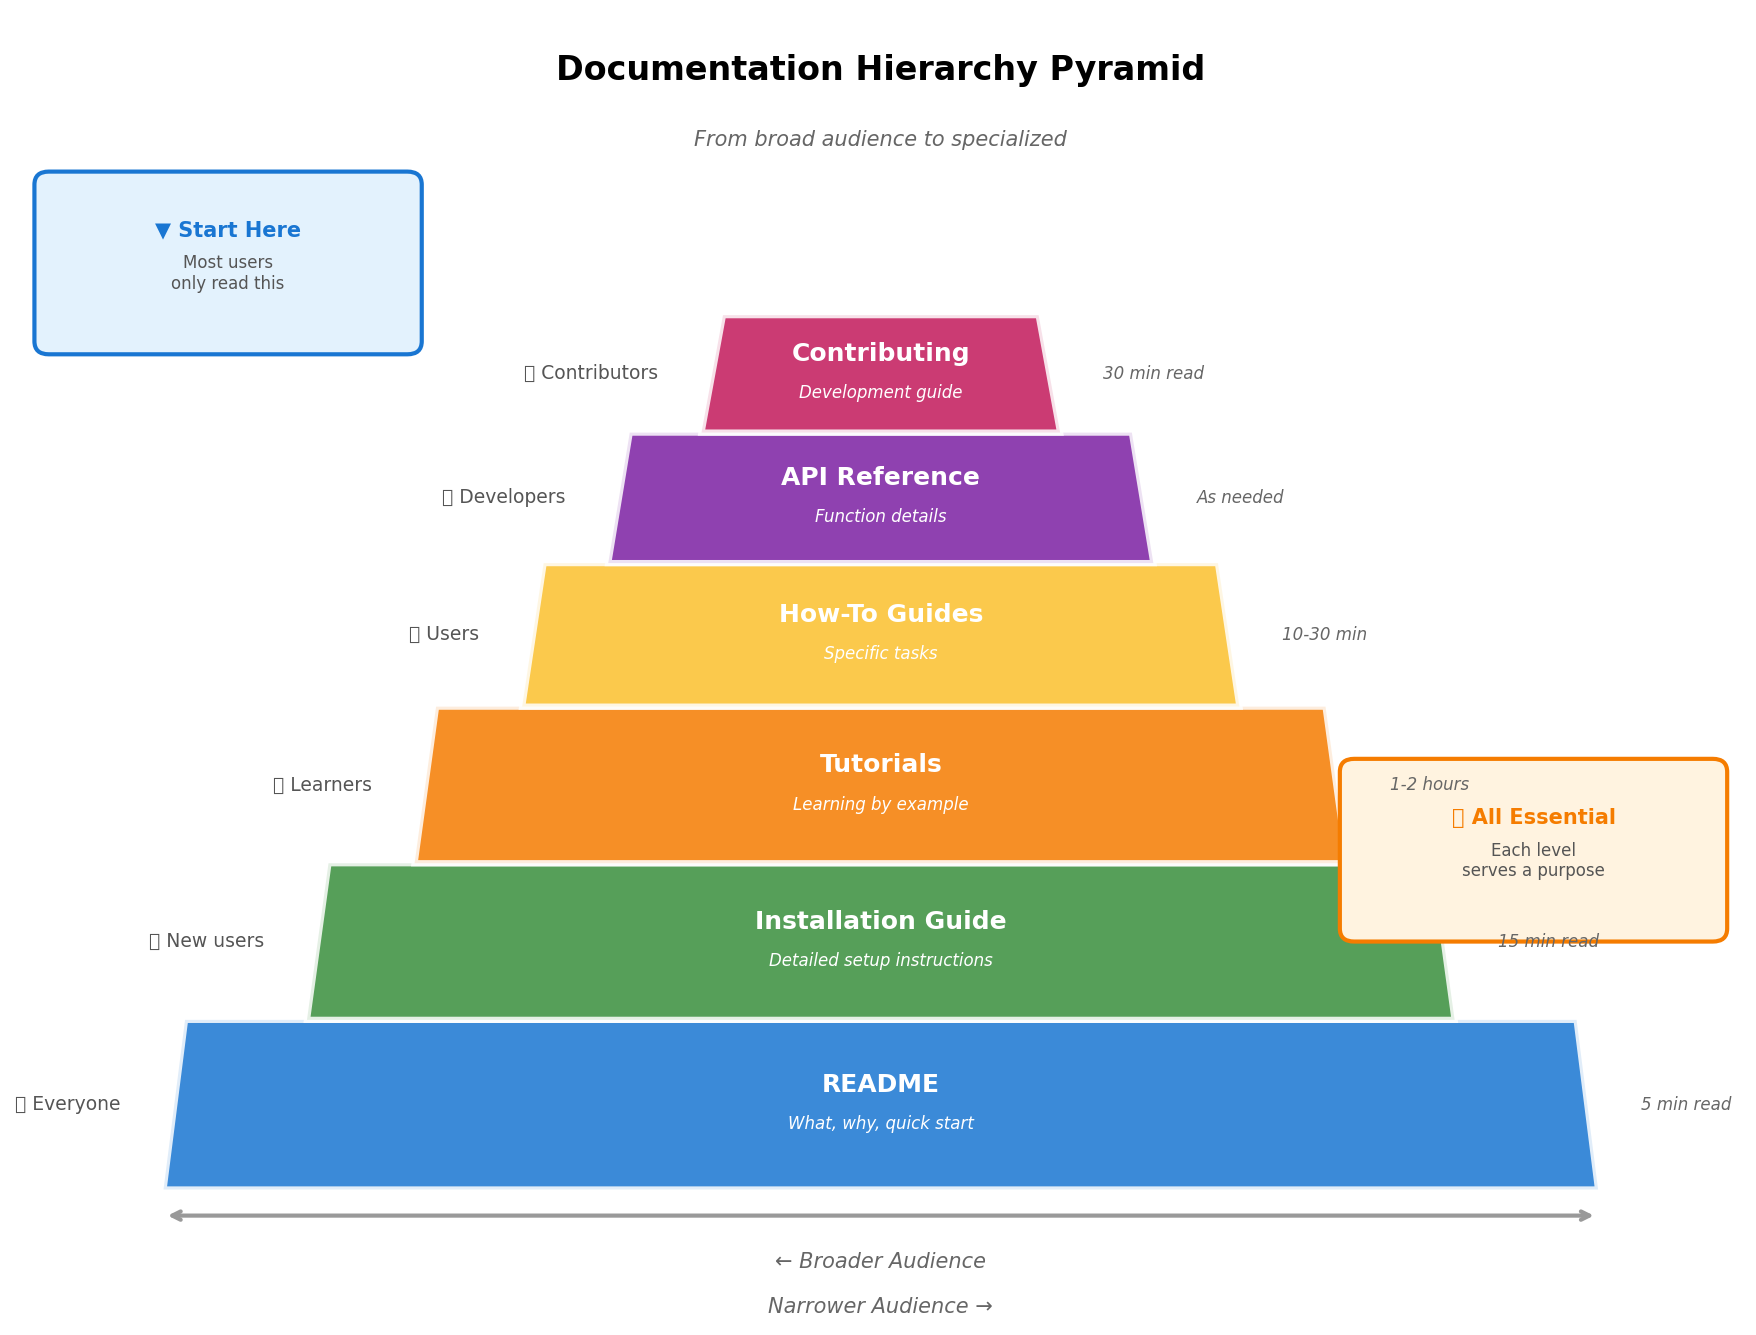
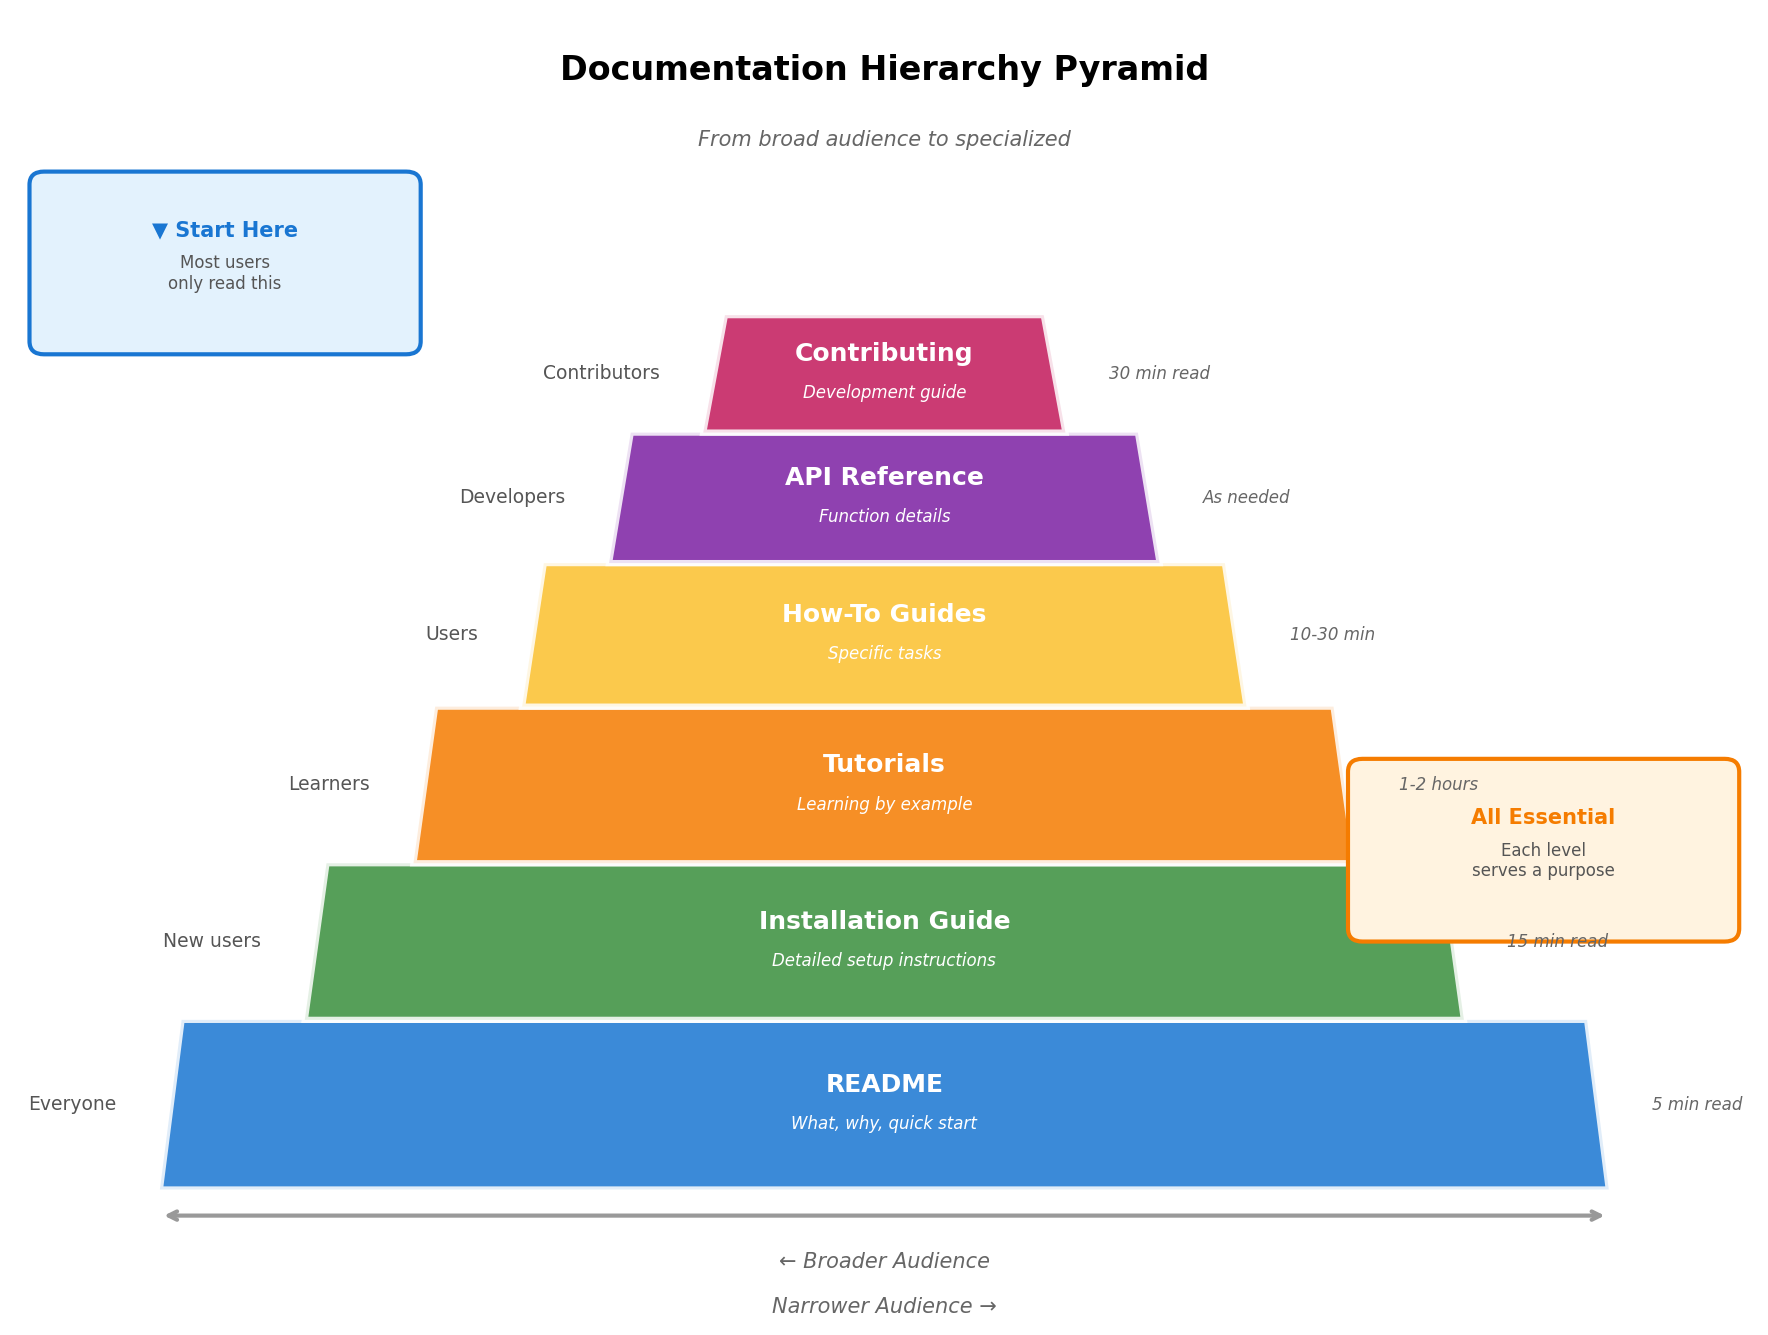
Fix visualization issues: remove emojis, fix text overflow and positioning

diff --git a/scripts/generate_lecture_figures.py b/scripts/generate_lecture_figures.py
@@ -293,13 +293,13 @@ def generate_lecture06_figures(output_dir):
                              edgecolor='#1976d2', linewidth=2,
                              facecolor='#e3f2fd')
     ax.add_patch(dev_box)
-    ax.text(1.5, 5.8, '👨💻 Developer', ha='center', fontsize=11, fontweight='bold')
+    ax.text(1.5, 5.8, 'Developer', ha='center', fontsize=11, fontweight='bold')
     ax.text(1.5, 5.3, 'Pushes Code', ha='center', fontsize=10)
     ax.text(1.5, 4.9, 'to GitHub', ha='center', fontsize=9, style='italic')
     
     trigger_circle = Circle((4.5, 5.5), 0.4, color='#ff9800', zorder=3)
     ax.add_patch(trigger_circle)
-    ax.text(4.5, 5.5, '⚡', ha='center', va='center', fontsize=20)
+    ax.text(4.5, 5.5, '!', ha='center', va='center', fontsize=20)
     ax.text(4.5, 4.3, 'Trigger', ha='center', fontsize=9, fontweight='bold')
     ax.text(4.5, 3.9, 'Automatic', ha='center', fontsize=8, style='italic')
     
@@ -308,13 +308,13 @@ def generate_lecture06_figures(output_dir):
                             edgecolor='#388e3c', linewidth=3,
                             facecolor='#e8f5e9')
     ax.add_patch(ci_box)
-    ax.text(7.5, 6.5, '🤖 CI System', ha='center', fontsize=11, fontweight='bold')
+    ax.text(7.5, 6.5, 'CI System', ha='center', fontsize=11, fontweight='bold')
     ax.text(7.5, 6, 'Clean Environment', ha='center', fontsize=9, color='#555')
     
     substeps = [
-        {'y': 5.4, 'text': '1. Checkout code', 'icon': '📥'},
-        {'y': 4.9, 'text': '2. Install dependencies', 'icon': '📦'},
-        {'y': 4.4, 'text': '3. Run all tests', 'icon': '🧪'},
+        {'y': 5.4, 'text': '1. Checkout code', 'icon': '>'},
+        {'y': 4.9, 'text': '2. Install dependencies', 'icon': '*'},
+        {'y': 4.4, 'text': '3. Run all tests', 'icon': '+'},
     ]
     for step in substeps:
         ax.text(6.3, step['y'], step['icon'], ha='left', fontsize=10)
@@ -325,7 +325,7 @@ def generate_lecture06_figures(output_dir):
                               edgecolor='#2e7d32', linewidth=2,
                               facecolor='#c8e6c9')
     ax.add_patch(pass_box)
-    ax.text(11.6, 6.3, '✅ PASS', ha='center', fontsize=11,
+    ax.text(11.6, 6.3, 'PASS', ha='center', fontsize=11,
             fontweight='bold', color='#1b5e20')
     ax.text(11.6, 5.9, 'Tests succeeded', ha='center', fontsize=8)
     
@@ -334,7 +334,7 @@ def generate_lecture06_figures(output_dir):
                               edgecolor='#c62828', linewidth=2,
                               facecolor='#ffcdd2')
     ax.add_patch(fail_box)
-    ax.text(11.6, 4.3, '❌ FAIL', ha='center', fontsize=11,
+    ax.text(11.6, 4.3, 'FAIL', ha='center', fontsize=11,
             fontweight='bold', color='#b71c1c')
     ax.text(11.6, 3.9, 'Tests failed', ha='center', fontsize=8)
     
@@ -369,12 +369,12 @@ def generate_lecture06_figures(output_dir):
     ax.text(6, 2.5, 'Fix bugs & push again', ha='center', fontsize=9,
             style='italic', color='#c62828')
     
-    ax.text(7, 1.5, '⏱ Entire process: 2-5 minutes (fully automated)',
+    ax.text(7, 1.5, 'Entire process: 2-5 minutes (fully automated)',
             ha='center', fontsize=10, color='#1976d2',
             bbox=dict(boxstyle='round,pad=0.5', facecolor='#e3f2fd',
                       edgecolor='#1976d2', linewidth=2))
     
-    ax.text(7, 0.5, '✨ No manual testing • Consistent results • Immediate feedback',
+    ax.text(7, 0.5, 'No manual testing • Consistent results • Immediate feedback',
             ha='center', fontsize=9, color='#555',
             bbox=dict(boxstyle='round,pad=0.4', facecolor='#f5f5f5',
                       edgecolor='#999'))
@@ -451,7 +451,7 @@ def generate_lecture12_figures(output_dir):
     ax.text(6, 4.2, '← These 3 steps can run in parallel →',
             ha='center', fontsize=8, style='italic', color='#f57c00')
     
-    ax.text(6, 0.3, '⚡ Smart execution: Only reruns steps when inputs change',
+    ax.text(6, 0.3, '! Smart execution: Only reruns steps when inputs change',
             ha='center', fontsize=9, color='#1976d2',
             bbox=dict(boxstyle='round,pad=0.4', facecolor='#e3f2fd',
                       edgecolor='#1976d2', linewidth=2))
@@ -481,22 +481,22 @@ def generate_lecture08_figures(output_dir):
     
     layers = [
         {'y': 1, 'width': 10, 'height': 1.3, 'label': 'README',
-         'desc': 'What, why, quick start', 'audience': '👥 Everyone',
+         'desc': 'What, why, quick start', 'audience': 'Everyone',
          'color': '#1976d2', 'time': '5 min read'},
         {'y': 2.3, 'width': 8, 'height': 1.2, 'label': 'Installation Guide',
-         'desc': 'Detailed setup instructions', 'audience': '👤 New users',
+         'desc': 'Detailed setup instructions', 'audience': 'New users',
          'color': '#388e3c', 'time': '15 min read'},
         {'y': 3.5, 'width': 6.5, 'height': 1.2, 'label': 'Tutorials',
-         'desc': 'Learning by example', 'audience': '🎓 Learners',
+         'desc': 'Learning by example', 'audience': 'Learners',
          'color': '#f57c00', 'time': '1-2 hours'},
         {'y': 4.7, 'width': 5, 'height': 1.1, 'label': 'How-To Guides',
-         'desc': 'Specific tasks', 'audience': '🔧 Users',
+         'desc': 'Specific tasks', 'audience': 'Users',
          'color': '#fbc02d', 'time': '10-30 min'},
         {'y': 5.8, 'width': 3.8, 'height': 1.0, 'label': 'API Reference',
-         'desc': 'Function details', 'audience': '💻 Developers',
+         'desc': 'Function details', 'audience': 'Developers',
          'color': '#7b1fa2', 'time': 'As needed'},
         {'y': 6.8, 'width': 2.5, 'height': 0.9, 'label': 'Contributing',
-         'desc': 'Development guide', 'audience': '🤝 Contributors',
+         'desc': 'Development guide', 'audience': 'Contributors',
          'color': '#c2185b', 'time': '30 min read'},
     ]
     
@@ -548,7 +548,7 @@ def generate_lecture08_figures(output_dir):
                                    edgecolor='#f57c00', linewidth=2,
                                    facecolor='#fff3e0')
     ax.add_patch(essential_box)
-    ax.text(10.55, 3.8, '✨ All Essential', ha='center', fontsize=10,
+    ax.text(10.55, 3.8, 'All Essential', ha='center', fontsize=10,
             fontweight='bold', color='#f57c00')
     ax.text(10.55, 3.4, 'Each level\nserves a purpose', ha='center',
             fontsize=8, color='#555')
@@ -690,7 +690,7 @@ def generate_lecture09_figures(output_dir):
     
     ax.text(5, 8.5, 'Docker Image Layers', ha='center',
             fontsize=16, fontweight='bold')
-    ax.text(5, 0.3, '⚡ Each layer is cached • Only changed layers rebuild',
+    ax.text(5, 0.3, '! Each layer is cached • Only changed layers rebuild',
             ha='center', fontsize=10, color='#2e7d32',
             bbox=dict(boxstyle='round,pad=0.5', facecolor='#e8f5e9',
                       edgecolor='#2e7d32', linewidth=2))
@@ -733,7 +733,7 @@ def generate_lecture10_figures(output_dir):
          'cmd': 'automated', 'color': '#7b1fa2'},
         {'x': 6.5, 'y': 2, 'num': '7', 'label': 'Address\nFeedback',
          'cmd': 'if needed', 'color': '#d32f2f'},
-        {'x': 2, 'y': 0.5, 'num': '8', 'label': 'Merge!\n✅',
+        {'x': 2, 'y': 0.5, 'num': '8', 'label': 'Merge!\n✓',
          'cmd': 'approved', 'color': '#2e7d32'},
     ]
     
@@ -797,7 +797,7 @@ def generate_lecture10_figures(output_dir):
                                      arrowstyle='->', mutation_scale=15,
                                      linewidth=2, color='#2e7d32')
     ax.add_patch(approved_arrow)
-    ax.text(4, 1.8, 'Approved!\nCI passes ✅',
+    ax.text(4, 1.8, 'Approved!\nCI passes ✓',
             ha='center', fontsize=8, fontweight='bold', color='#2e7d32')
     
     plt.tight_layout()
@@ -825,19 +825,19 @@ def generate_lecture11_figures(output_dir):
     
     principles = [
         {'x': 2, 'y': 6.5, 'letter': 'F', 'name': 'Findable',
-         'color': '#1976d2', 'icon': '🔍',
+         'color': '#1976d2', 'icon': 'F',
          'points': ['Persistent identifier\n(DOI)', 'Rich metadata',
                     'Searchable registry']},
         {'x': 6, 'y': 6.5, 'letter': 'A', 'name': 'Accessible',
-         'color': '#388e3c', 'icon': '🔓',
+         'color': '#388e3c', 'icon': 'A',
          'points': ['Standard protocols\n(HTTP, FTP)', 'Clear access rules',
                     'Metadata always\navailable']},
         {'x': 10, 'y': 6.5, 'letter': 'I', 'name': 'Interoperable',
-         'color': '#f57c00', 'icon': '🔗',
+         'color': '#f57c00', 'icon': 'I',
          'points': ['Community\nstandards', 'Standard formats',
                     'References to\nother data']},
         {'x': 6, 'y': 2.5, 'letter': 'R', 'name': 'Reusable',
-         'color': '#7b1fa2', 'icon': '♻',
+         'color': '#7b1fa2', 'icon': 'R',
          'points': ['Clear license', 'Detailed provenance',
                     'Domain standards']},
     ]
@@ -920,7 +920,7 @@ def main():
     generate_lecture11_figures(os.path.join(base_dir, 'lecture_11'))
     generate_lecture12_figures(os.path.join(base_dir, 'lecture_12'))
     
-    print("\n✅ All lecture figures generated successfully!")
+    print("\n✓ All lecture figures generated successfully!")
     print("\nGenerated files:")
     print("  lecture_01: 3 images (Git workflows)")
     print("  lecture_02: 1 image (merge strategies)")
